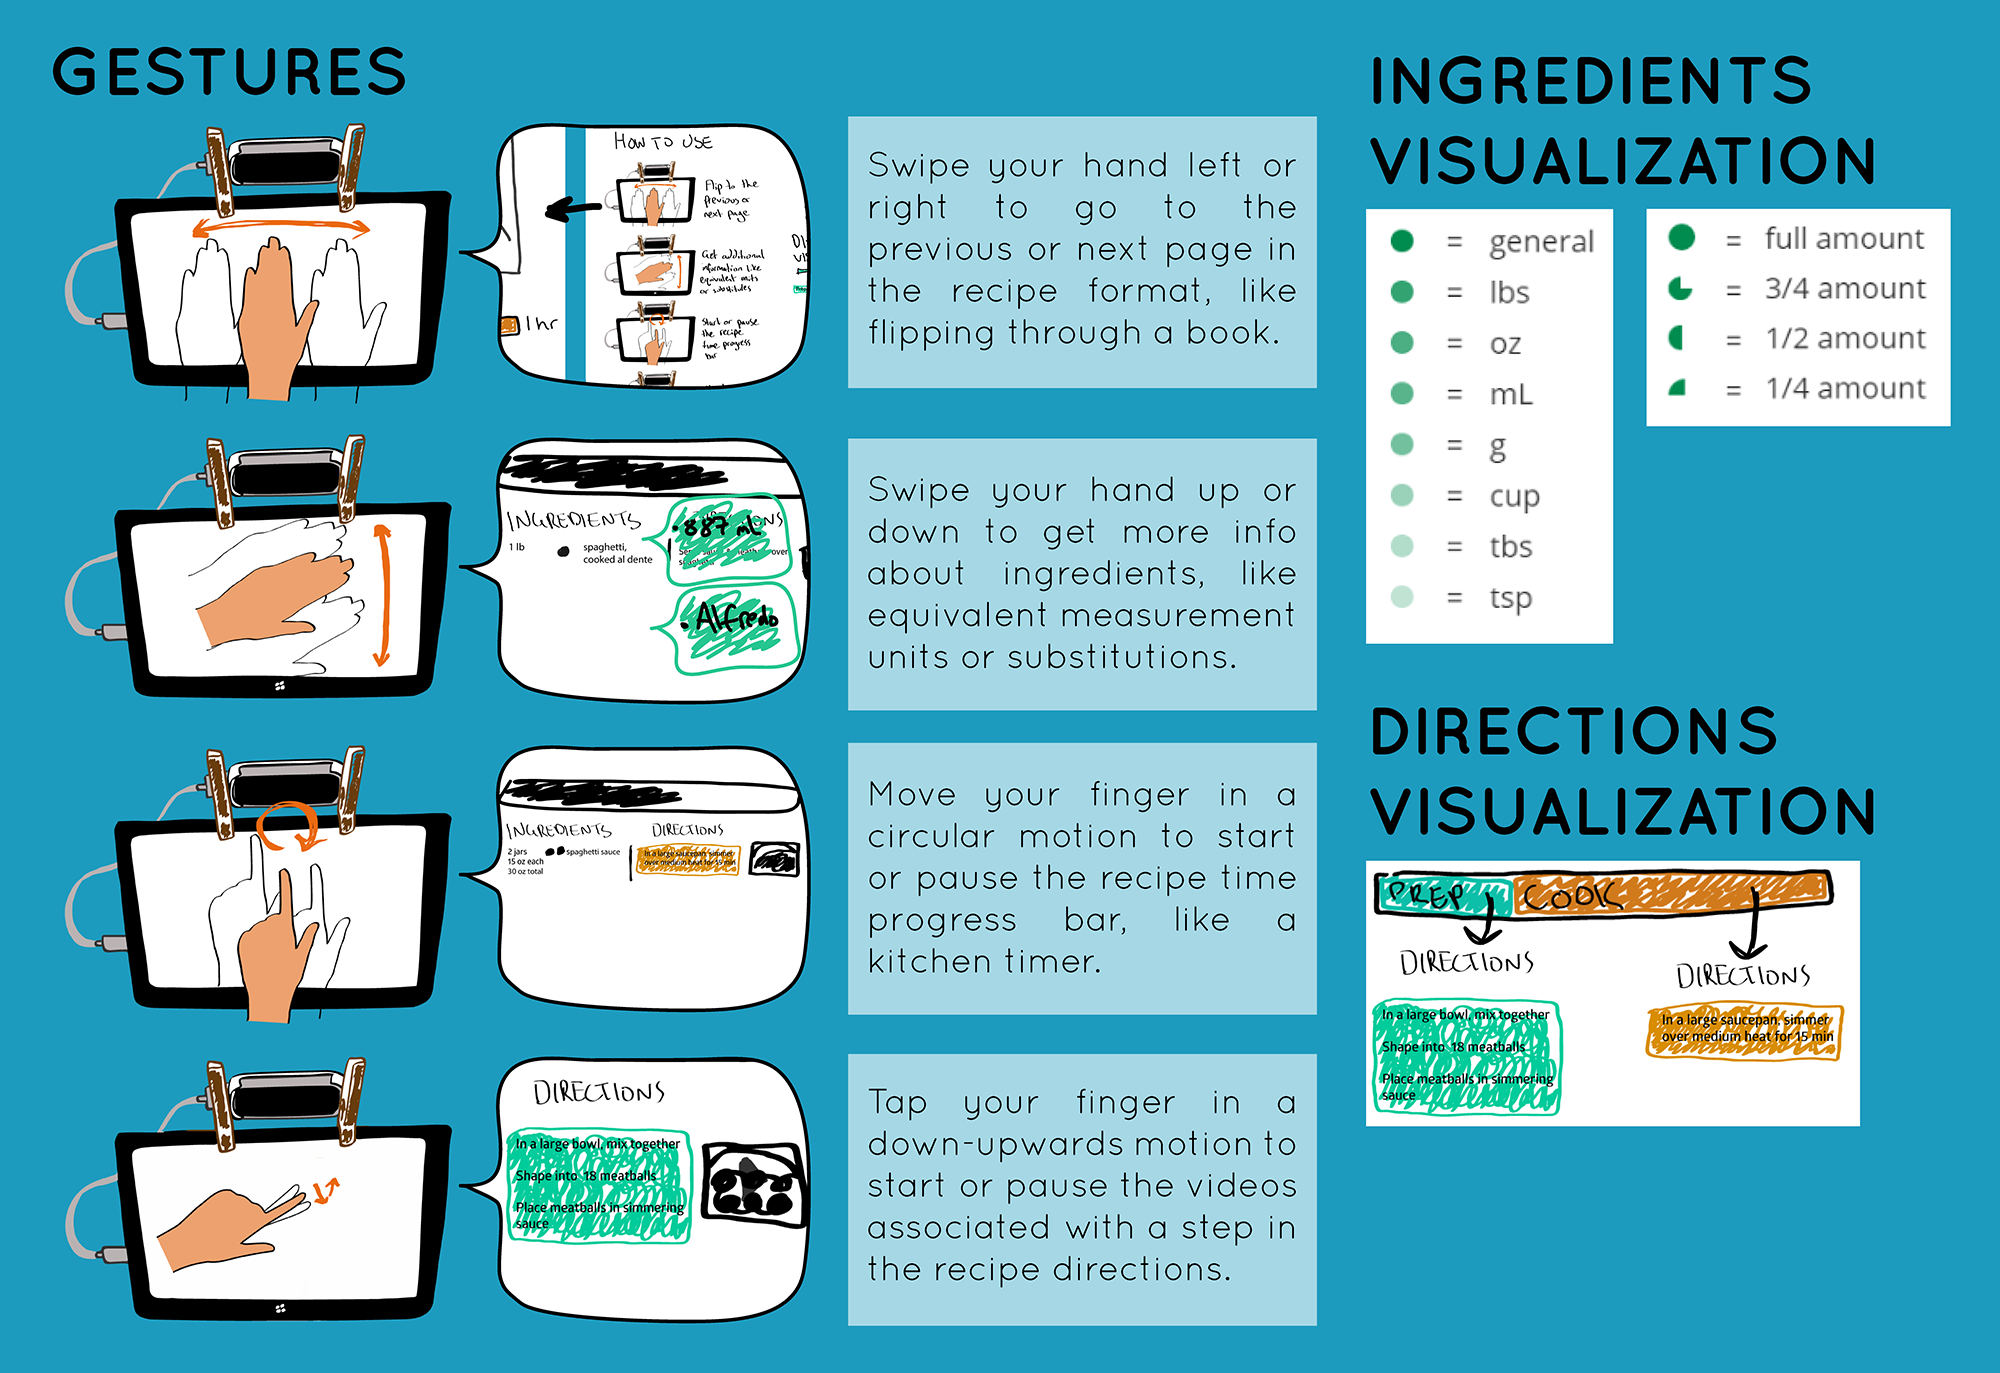
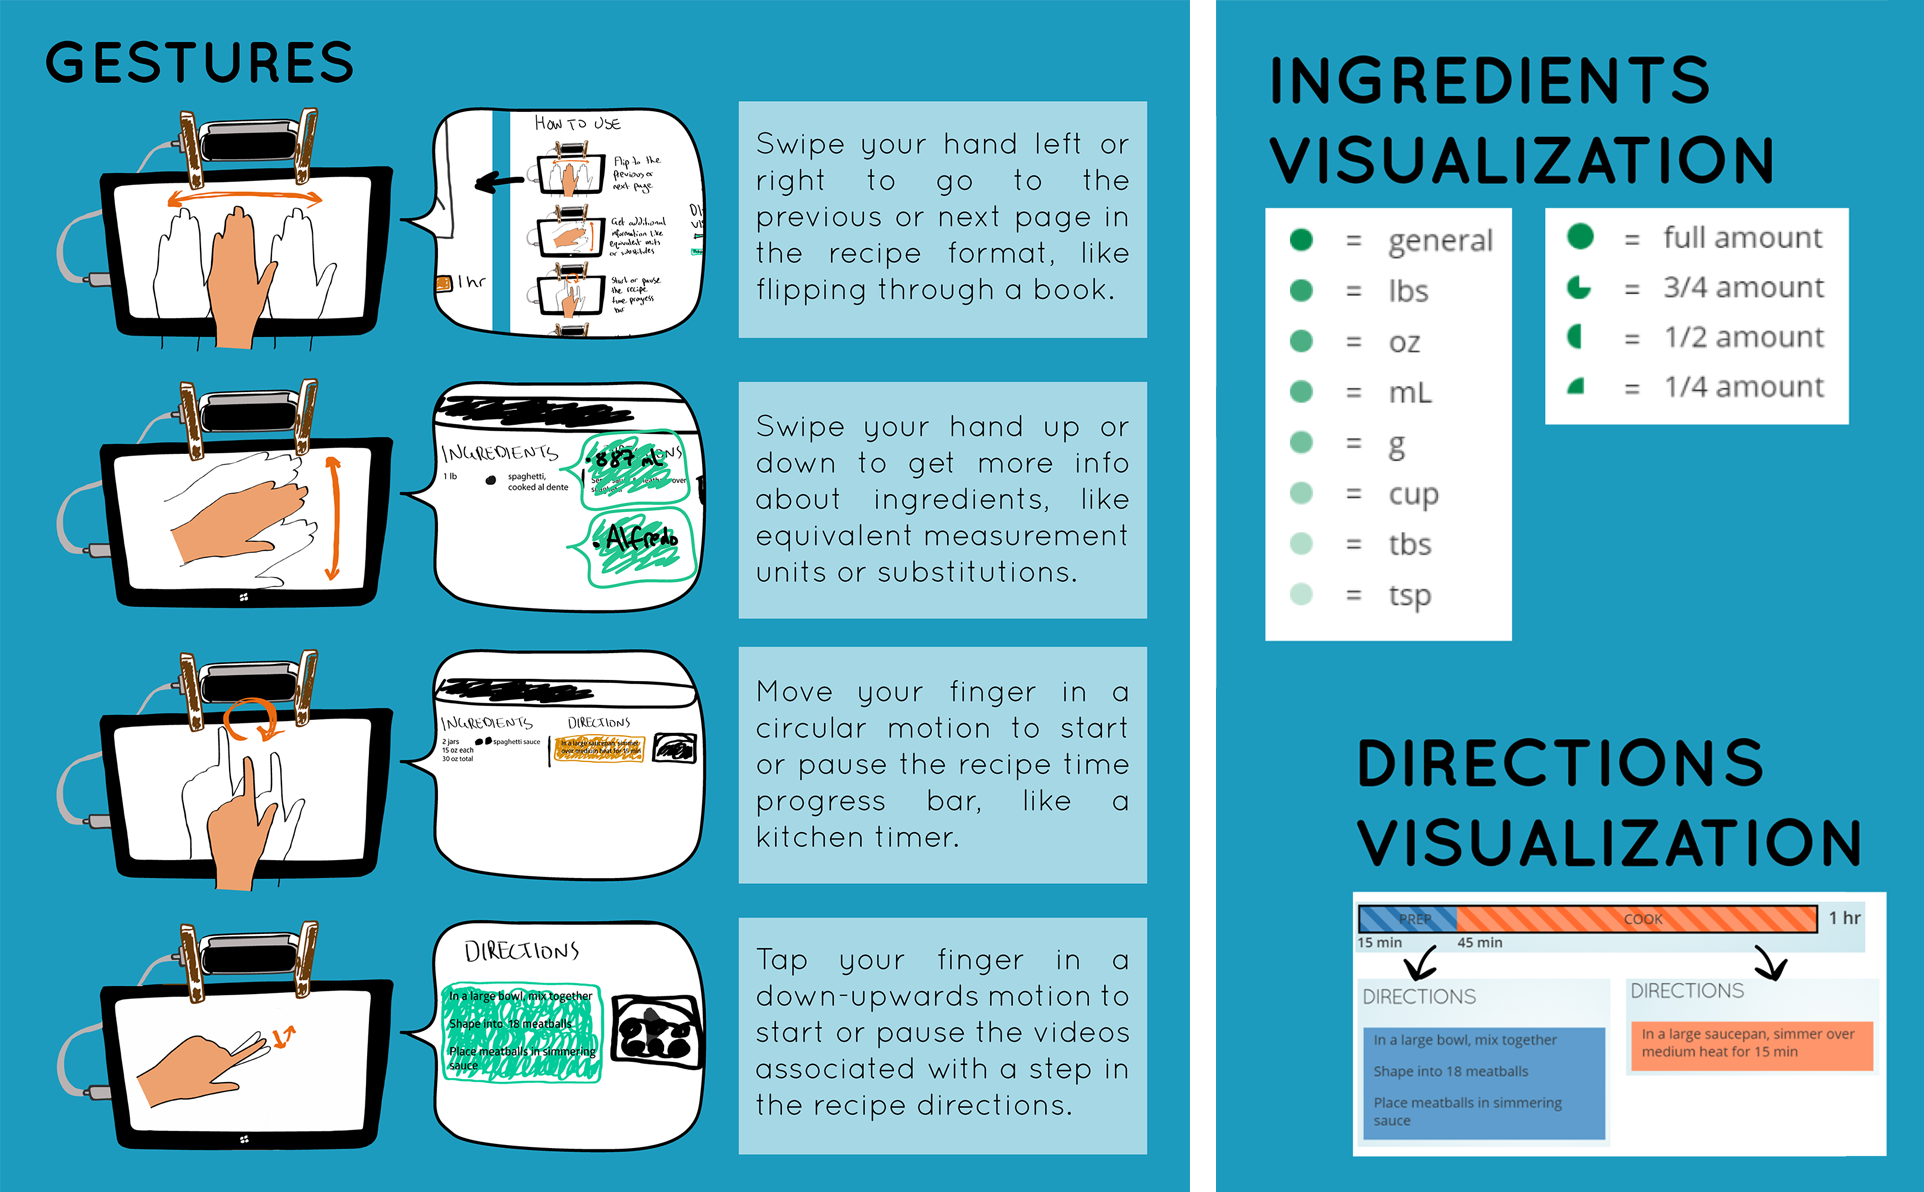
Fix gestures and styles to work on Win8 Surface

diff --git a/reveal.js/css/theme/cooking.css b/reveal.js/css/theme/cooking.css
@@ -495,7 +495,7 @@ div.cook-total {
 	font-weight: 600;
 	position: absolute;
 	top: 0;
-	left: 1050px;
+	left: 1020px;
 	display: none;
 }
 
@@ -525,7 +525,7 @@ div.cook-total {
 	font-weight: 600;
 	position: absolute;
 	top: 0;
-	left: 1050px;
+	left: 1020px;
 }
 
 .popup {
@@ -773,6 +773,10 @@ div.cook-total {
 
 .img-directions img {
 	width: 500px;
+}
+
+.img-instructions {
+	height: 650px;
 }
 
 .vid-container {

diff --git a/reveal.js/js/cooking.js b/reveal.js/js/cooking.js
@@ -40,4 +40,13 @@ $(document).ready(function() {
             cFlag = false;
         }
     });
+
+    $(".item").click(function() {
+        if($(".extra").css('display') == 'none') {
+            $(".extra").fadeIn(300).show(); 
+        }
+        else if ($(".extra").css('display') == 'block') {
+            $(".extra").fadeOut(300).hide();
+      }
+    });
 }); 

diff --git a/reveal.js/index.html b/reveal.js/index.html
@@ -63,7 +63,7 @@
 
 			<!-- INSTRUCTIONAL OVERVIEW -->
 			<section>
-				<img style="height:650px" src="img/instructions.png" />
+				<img class="img-instructions" src="img/instructions.png" />
 			</section>
 
 			<!-- INGREDIENTS OVERVIEW -->
